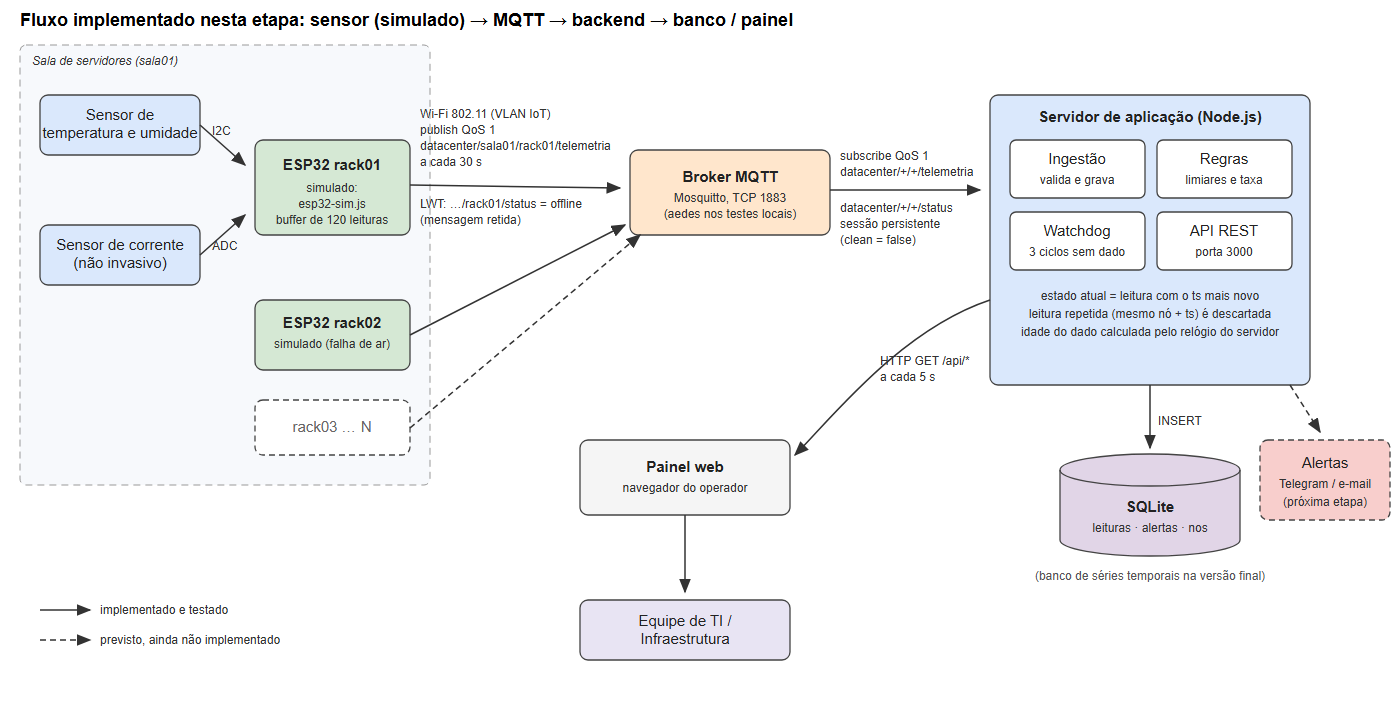
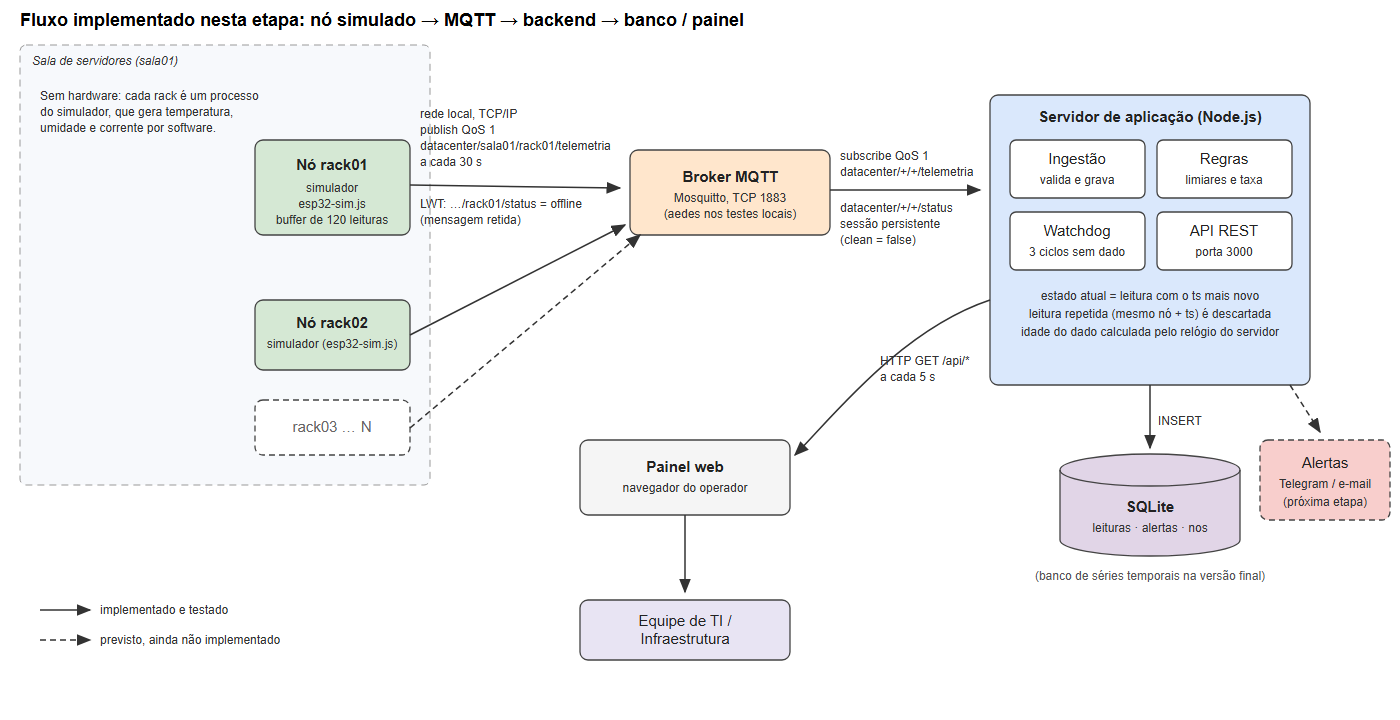
Deixa claro que o no do rack e simulado (sem montagem fisica)
Ajusta README e comentarios do simulador e troca o diagrama do fluxo,
que ainda mostrava os sensores fisicos como implementados.

diff --git a/src/simulador/esp32-sim.js b/src/simulador/esp32-sim.js
@@ -1,7 +1,7 @@
 // Simulador do no ESP32 de um rack.
-// Faz o mesmo papel que o firmware vai fazer: le os "sensores", monta o JSON
-// e publica no broker. Se a conexao cair, guarda as leituras num buffer e
-// reenvia quando voltar.
+// O projeto nao tem montagem fisica, entao este processo faz o papel do no:
+// gera as leituras dos "sensores", monta o JSON e publica no broker. Se a
+// conexao cair, guarda as leituras num buffer e reenvia quando voltar.
 //
 // uso: node src/simulador/esp32-sim.js --rack rack01 [--intervalo 30] [--temp 23] [--cenario normal|falha-ar|sobrecarga]
 //      [--queda 60,90]  -> derruba o "wifi" aos 60 s por 90 s (para testar falha)
@@ -54,8 +54,8 @@ client.on('connect', () => {
   client.publish(`${base}/status`, JSON.stringify({ no: rack, estado: 'online', ts: new Date().toISOString() }), { qos: 1, retain: true });
   esvaziarBuffer();
 
-  // o ESP32 so comeca a medir depois de conectar a primeira vez, porque
-  // precisa do NTP para ter a hora certa na leitura
+  // so comeca a medir depois de conectar a primeira vez. Num ESP32 esse
+  // seria o momento de acertar o relogio pelo NTP
   if (!iniciado) {
     iniciado = true;
     setInterval(ciclo, intervalo * 1000);
@@ -156,7 +156,7 @@ function lerSensores() {
     no: rack,
     sala,
     seq,
-    ts: new Date().toISOString(), // hora do no (no ESP32 vem do NTP)
+    ts: new Date().toISOString(), // hora do no (relogio do computador, sincronizado por NTP)
     intervalo_s: intervalo,
     temp_c: arred(temp),
     umid_pct: arred(45 + ruido(2)),

diff --git a/README.md b/README.md
@@ -14,7 +14,7 @@ ESP32 (simulado)  --MQTT/QoS1-->  Broker  --MQTT-->  Backend  -->  SQLite
                                                         +--> API REST --> Painel web
 ```
 
-- `src/simulador/esp32-sim.js` faz o papel do nó do rack. Gera temperatura, umidade e corrente, publica a cada N segundos e guarda as leituras num buffer quando perde a conexão.
+- `src/simulador/esp32-sim.js` faz o papel do nó ESP32 do rack. O projeto não inclui montagem física, então cada rack é um processo do simulador: gera temperatura, umidade e corrente, publica a cada N segundos e guarda as leituras num buffer quando perde a conexão.
 - `src/backend/` assina os tópicos, grava no banco, avalia os limiares, vigia o heartbeat dos racks e expõe a API.
 - `public/index.html` é o painel que mostra os racks, as últimas leituras e os alertas.
 - `src/broker-dev.js` é um broker MQTT em Node (aedes) para rodar sem Docker. O broker previsto na arquitetura é o Mosquitto (`docker-compose.yml`).
@@ -109,5 +109,4 @@ Na pasta `evidencias/` estão os prints do painel e os logs de cada componente d
 
 - envio dos alertas por Telegram/e-mail (hoje só grava no banco e mostra no log/painel)
 - trocar o SQLite pelo banco de séries temporais
-- firmware real do ESP32 (o simulador já usa o mesmo formato de tópico e de JSON)
 - autenticação no broker
